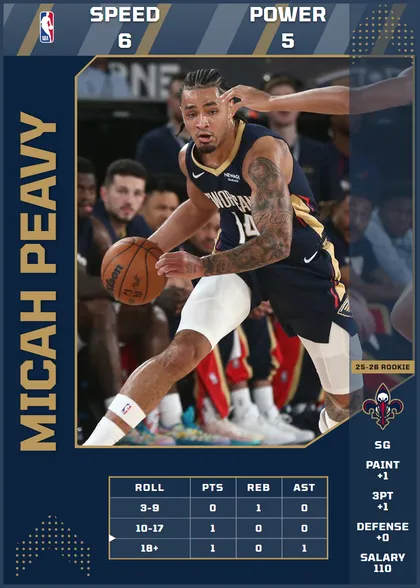
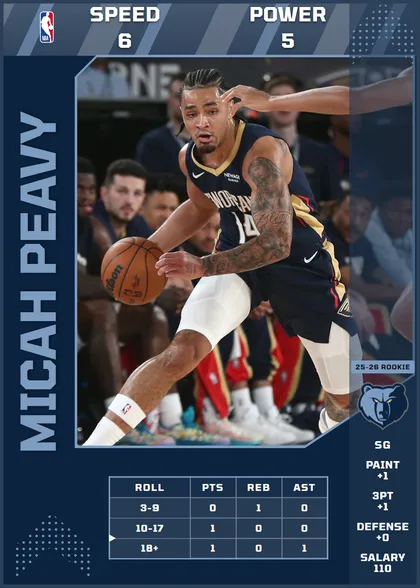
cards: nine more 2026-27 cards move to the team nba.com lists them on
After Bennedict Mathurin's card turned out to be on the wrong team, the
live roster was checked against all 348: DeRozan SAC to DEN, Bruce Brown
DEN to NYK, Ryan Nembhard ATL to DEN, Buddy Hield ATL to CHI, Micah
Peavy NOP to MEM, Gradey Dick TOR to LAC, Gary Harris DET to MIL, Jordan
Hawkins NOP to MEM, Drew Eubanks SAC to NYK. The user: "These all look
right." Only `team` changes on each card; faces re-exported.

Tyrese Martin, Gabe Vincent and Rob Dillingham are on no roster now and
their pool team is an aggregate code, so each is pinned by hand to the
team his card already wears (PHI, ATL, CHI); a card needs one to print.
Player ids nba.com no longer returns are kept from the last run.

A dynasty staff test took "the first man on the roster" and needed him
under contract next year; it now picks a man on a multi-year deal.

diff --git a/src/game/modes/dynastyStaff.test.js b/src/game/modes/dynastyStaff.test.js
@@ -209,7 +209,13 @@ describe('Sports Science', () => {
   it('protects one named player from the year\'s roll, and the protection is spent at the turn of the year', () => {
     const rng = seeded(9);
     let d = ownDynasty({ aging: true });
-    const mine = rosterKeys(d, HUMAN_ID)[0];
+    // A man whose deal outlasts the year: the proof below is that he is still
+    // under contract after the roll, and a deal that simply ran out would look
+    // like a retirement. (The roster is drawn from the real ones; "the first
+    // man" became someone on an expiring deal the day nine cards changed
+    // teams, 2026-10-02.)
+    const mine = rosterKeys(d, HUMAN_ID).find(k => d.contracts[k].years >= 2);
+    expect(mine).toBeTruthy();
     expect(protectProblem(d, HUMAN_ID, mine)).toMatch(/tier 2/);
     expect(protectProblem({ ...d, aging: false, staff: { [HUMAN_ID]: { science: 2 } } }, HUMAN_ID, mine)).toMatch(/ten-year/);
     d = { ...d, staff: { [HUMAN_ID]: { science: 2 } } };
